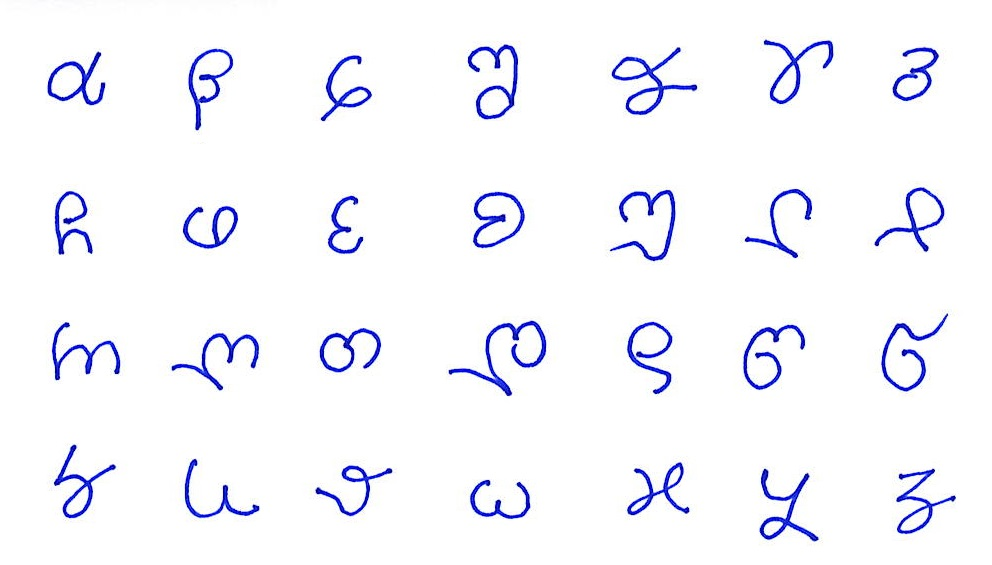
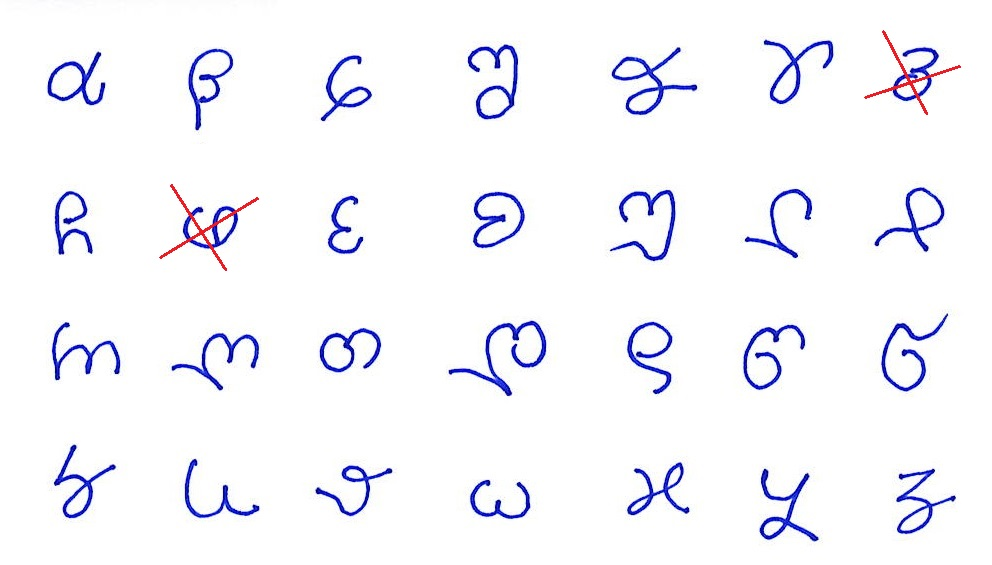
deprecate letters { გ ,  ⱷ }

diff --git a/alphabet.md b/alphabet.md
@@ -149,11 +149,11 @@ For question mark: You should pronounce a longer vowel and gliding the tone from
 Maj words have a constant accent. Usually the first vowel in a word is a bit stronger then the other vowels. This can be changed if the vowel has an accent over it. In this case only one vowel can have an accent. It becomes a bit stronger than the normal tone.
 
 * Grave accent can be used to stress a letter: {à è ì ò ù};
-* Letter "ə" can not have an accent. @
+* Letter "h" is read "ə" after a consonant but it can not have an accent. 
 
 ## Consonants
 
-Maj is using 20 consonants:
+Maj is using 19 consonants:
 
 method   | bilabial| labio dental | alveolar | valar | post alveolar | glottal 
 ---------|---------|--------------|----------|-------|---------------|----------
@@ -162,7 +162,7 @@ nasal    | m       |              | n        |       |               |
 trill    |         |              | r        |       |               | 
 fricative|         | f,v          | s,z      |       | x, j          | ɦ
 lateral  |         |              | l        |       |               |
-affricate|         |              | c        |       | q, ʤ          |
+affricate|         |              | c        |       | q             |
 
 
 Most consonants are similar to: Italian and Romanian but are also found in English;

diff --git a/script.md b/script.md
@@ -8,7 +8,7 @@ Maj script is a cursive alphabet with letters from Georgian, Greek and Latin. It
 
 ## Font
 
-There is not yet a font for Maj script. We have reused different unicode symbols:
+There is not yet a font for Maj script. We have reused different Unicode symbols:
 
 ```
 α  β  ɕ  შ  ჵ  ɤ  გ  ჩ  ⱷ  ɛ  ʚ  უ  ჺ  ჲ  რ  ღ  თ  დ  ƍ  წ  σ  ծ  և  ϑ  ω  ϰ  ყ  ʓ  
@@ -31,6 +31,8 @@ To write a Maj letter correctly you must start with movement 1, then you continu
 The letters in next picture are not perfect. However if you start the letter from the correct point and do the directions correctly the writing will be probably good enough for reading by other persons.
 
 <img src="demo/maj-script.jpg" alt="Maj Alphabet" width="600"></img>
+
+Deprecated letters: { გ  ⱷ }
 
 ## Cost of writing
 
